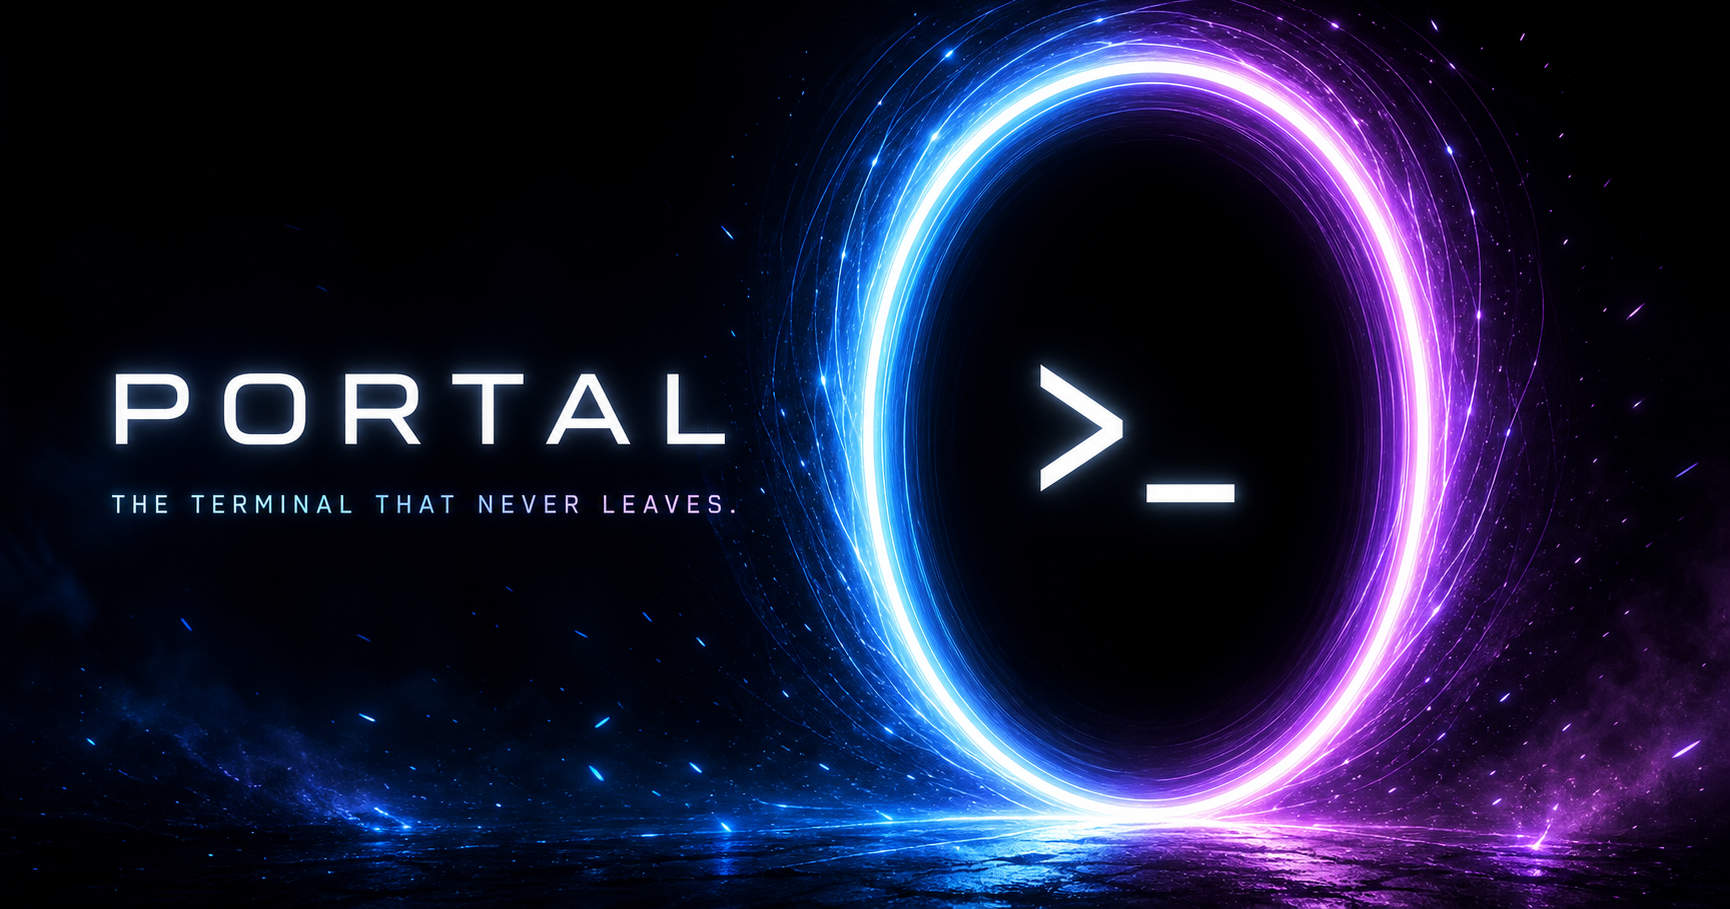
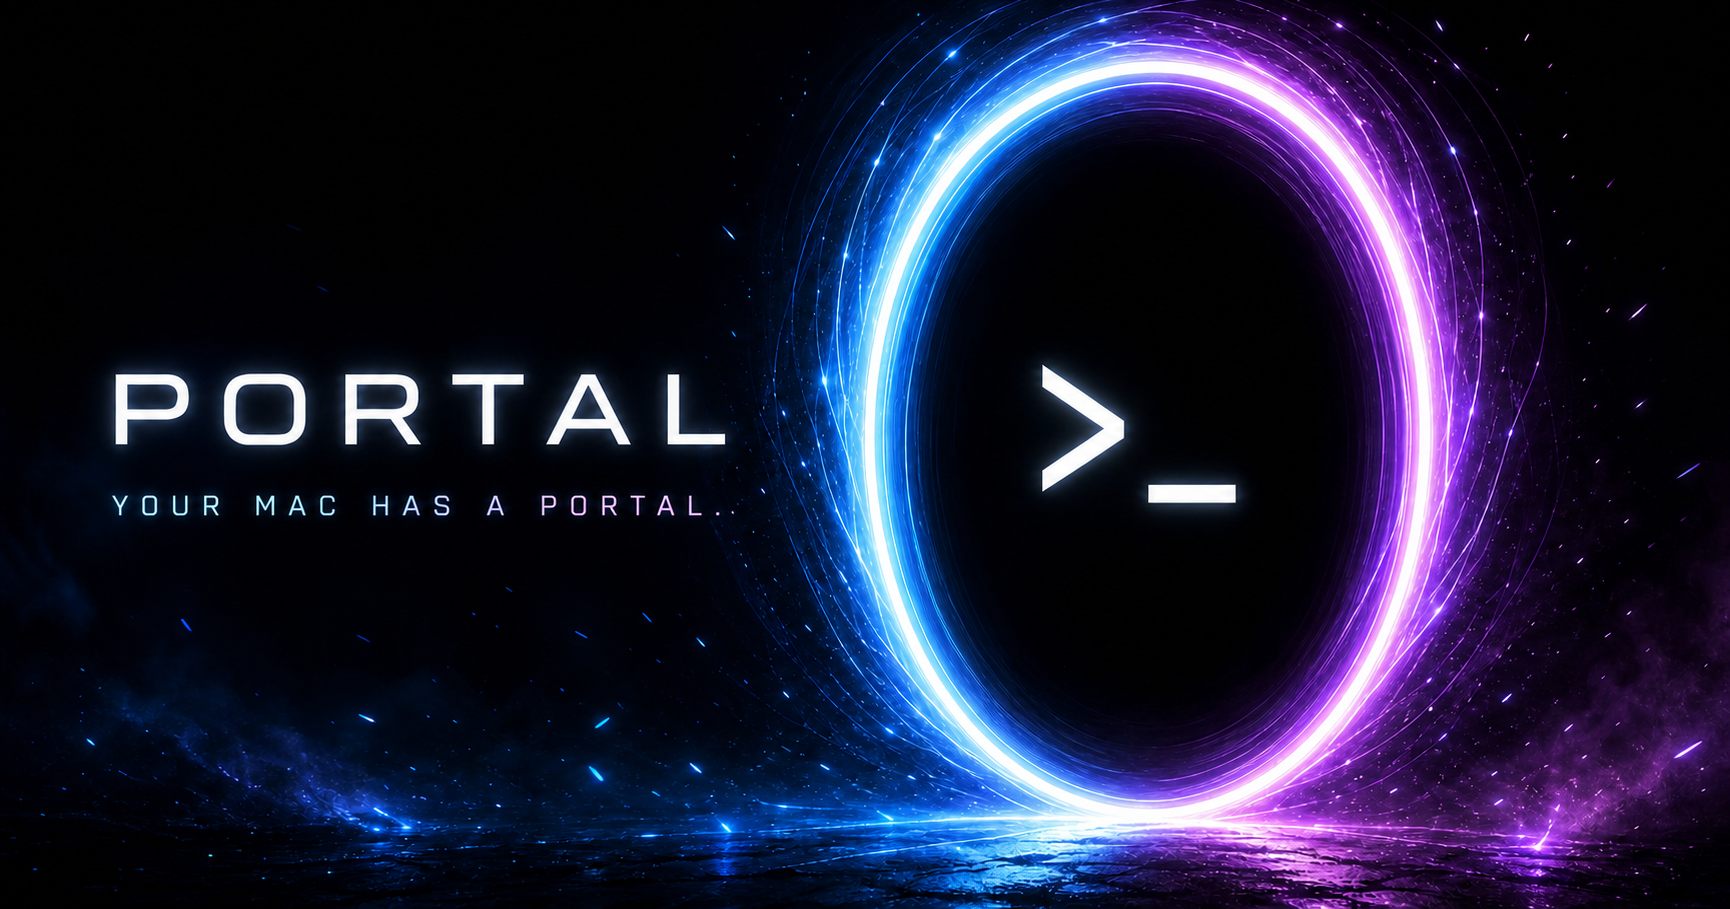
Clarify Portal host availability

diff --git a/www/app/page.tsx b/www/app/page.tsx
@@ -21,13 +21,13 @@ export default function Home() {
             Persistent shell transport online
           </p>
           <h1>
-            <span>The terminal</span>
-            <span>that never</span>
-            <span className="gradient-text">leaves.</span>
+            <span>Your Mac</span>
+            <span>has a</span>
+            <span className="gradient-text">portal.</span>
           </h1>
           <p className="lede">
-            Open a terminal session. Leave. Rejoin it from any Mac or iPhone.
-            Everything is exactly where you left it.
+            Open a new shell or rejoin one from any Mac or iPhone. No SSH
+            setup. Your host Mac just needs to be awake.
           </p>
           <a className="primary-action" href="#inside">
             Enter Portal
@@ -57,8 +57,9 @@ export default function Home() {
           <span>your terminal.</span>
         </h2>
         <p className="statement-copy">
-          Sessions live until you <code>exit</code>. Close the tab, quit the
-          app, or pick up another device—your shell keeps running.
+          Sessions stay put until you <code>exit</code>. Close the tab, quit
+          Portal, or switch devices. Jump straight back in whenever the host
+          Mac is awake.
           <small>
             Synced through your iCloud account. No SSH. End-to-end encrypted.
           </small>
@@ -78,7 +79,7 @@ export default function Home() {
         </div>
         <p className="shot-caption">
           <span>01</span>
-          Every session stays available until you end it.
+          Sessions stay put until you end them.
         </p>
       </section>
 
@@ -265,7 +266,7 @@ export default function Home() {
           <span aria-hidden="true">&gt;_</span>
           <strong>PORTAL</strong>
         </a>
-        <p>YOUR SESSION IS STILL RUNNING.</p>
+        <p>YOUR SESSION IS STILL THERE.</p>
         <p>© 2026</p>
       </footer>
     </main>

diff --git a/www/app/layout.tsx b/www/app/layout.tsx
@@ -14,23 +14,24 @@ const geistMono = Geist_Mono({
 
 export const metadata: Metadata = {
   metadataBase: new URL("https://portal-terminal.dev"),
-  title: "Portal — The terminal that never leaves",
+  title: "Portal — Your Mac has a portal",
   description:
-    "A macOS block terminal with persistent local and remote shell sessions.",
+    "Open new shells and rejoin sessions from any Mac or iPhone while the host Mac is awake.",
   icons: {
     icon: "/portal-icon.png",
     apple: "/portal-icon.png",
   },
   openGraph: {
-    title: "Portal — The terminal that never leaves",
+    title: "Portal — Your Mac has a portal",
     description:
-      "Commands become blocks. Sessions survive tabs, app quits, and the space between your Macs.",
+      "Open new shells and rejoin sessions from any Mac or iPhone. No SSH setup.",
     images: [{ url: "/og.png", width: 1730, height: 909, alt: "Portal" }],
   },
   twitter: {
     card: "summary_large_image",
-    title: "Portal — The terminal that never leaves",
-    description: "A macOS terminal built around session continuity.",
+    title: "Portal — Your Mac has a portal",
+    description:
+      "Open new shells and rejoin sessions from any Mac or iPhone. No SSH setup.",
     images: ["/og.png"],
   },
 };
